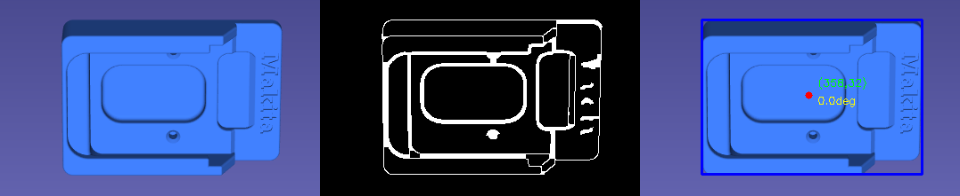
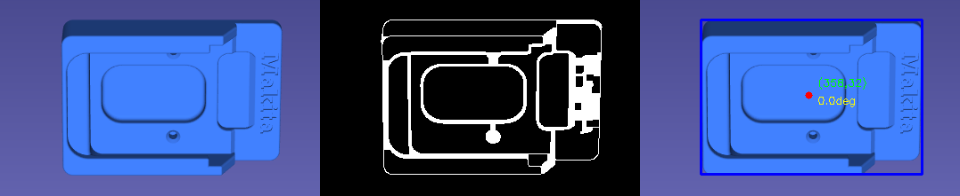
get of the pc washingthon

diff --git a/pia.py b/pia.py
@@ -2,61 +2,64 @@ import cv2
 import numpy as np
 
 # 1. DEFINICIÓN DE VARIABLES
-# ==========================================
 img09_entrada, img09_salida = 'portabaterias.png', 'etapas_img09.png'
 img10a_entrada, img10a_salida = 'pinza-mesa-120deg.png', 'etapas_img10_120.png'
 img10b_entrada, img10b_salida = 'pinza-mesa-90deg.png', 'etapas_img10_90.png'
 img11_entrada, img11_salida = 'Perno-de-bloqueo.png', 'etapas_img11.png'
 img12_entrada, img12_salida = 'placa-rectangular.png', 'etapas_img12.png'
 
+# Contador para el formato de impresión
+num_foto = 9
+
 # ==========================================
 # 2. FUNCIÓN DE PROCESAMIENTO 
-# ==========================================
 def procesar_figura(nombre_imagen, nombre_salida, K, OFF_X, OFF_Y, x_real, y_real, ang_real, es_perno=False):
+    global num_foto
     img = cv2.imread(nombre_imagen)
     if img is None:
         print(f"No se encontró: {nombre_imagen}")
         return
     
     gray = cv2.cvtColor(img, cv2.COLOR_BGR2GRAY)
-    blurred = cv2.GaussianBlur(gray, (5, 5), 0)
+    blurred = cv2.GaussianBlur(gray, (3, 3), 0)
     color_img = img.copy()
 
-    # Bordes (Canny)
-    low, high = (5, 40) if es_perno else (20, 100)
+    # --- AJUSTE DE BORDES ---
+    low, high = (5, 30) if es_perno else (10, 80)
     edges = cv2.Canny(blurred, low, high)
 
-    # --- Kernel de 5x5 para mantener la forma real de la pinza ---
-    kernel = np.ones((5, 5), np.uint8) 
+    # --- CLAUSURA ---
+    kernel = np.ones((7, 7), np.uint8) 
     closing = cv2.morphologyEx(edges, cv2.MORPH_CLOSE, kernel)
 
+    # Encontrar contornos
     contours, _ = cv2.findContours(closing, cv2.RETR_EXTERNAL, cv2.CHAIN_APPROX_SIMPLE)
 
     if contours:
         cnt = max(contours, key=cv2.contourArea)
-        M = cv2.moments(cnt)
+        M = cv2.moments(cnt) 
         if M["m00"] != 0:
-            # Centroide en píxeles
             cx, cy = int(M["m10"] / M["m00"]), int(M["m01"] / M["m00"])
 
-            # Conversión a coordenadas del Robot
+            # Conversión a coordenadas del robot
             cx_robot = (cx * K) + OFF_X
             cy_robot = OFF_Y - (cy * K)
 
-            # Cálculo de Orientación
+            # --- ORIENTACIÓN ---
             rect = cv2.minAreaRect(cnt)
             angle = rect[-1]
-            angle_robot = angle + 180 if rect[1][0] < rect[1][1] else angle + 90
+            
+            if rect[1][0] < rect[1][1]:
+                angle_robot = angle + 180
+            else:
+                angle_robot = angle + 90
 
-            # Normalización de ángulo
             while abs(angle_robot - ang_real) > 45:
                 if angle_robot > ang_real: angle_robot -= 90
                 else: angle_robot += 90
 
-            # --- CÁLCULO DE ERROR Y PRECISIÓN ---
+            # Error y Precisión
             err_dist = np.sqrt((cx_robot - x_real)**2 + (cy_robot - y_real)**2)
-            
-            # Precisión relativa (Suponiendo rango de 2000mm)
             precision = (1 - (err_dist / 2000)) * 100 
 
             # --- DIBUJAR ---
@@ -65,26 +68,24 @@ def procesar_figura(nombre_imagen, nombre_salida, K, OFF_X, OFF_Y, x_real, y_rea
             cv2.drawContours(color_img, [box], 0, (255, 0, 0), 2)
             
             font = cv2.FONT_HERSHEY_SIMPLEX
-            
-            # Texto 1: Posición (Capa Verde)
             cv2.putText(color_img, f"({int(cx_robot)},{int(cy_robot)})", (cx+10, cy-10), 
                         font, 0.4, (0, 255, 0), 1)
-            
-            # Texto 2: Ángulo (Capa Amarilla)
             cv2.putText(color_img, f"{angle_robot:.1f}deg", (cx+10, cy+10), 
                         font, 0.4, (0, 255, 255), 1)
 
-            # --- CONSOLA DETALLADA ---
-            print(f"FICHA: {nombre_imagen}")
+            # --- FORMATO TXT EN CONSOLA ---
+            print(f"Imagen {num_foto}: {nombre_imagen}")
             print(f"  > Píxeles: ({cx}, {cy})")
             print(f"  > Robot Calc: X={cx_robot:.2f}, Y={cy_robot:.2f}")
             print(f"  > Robot Real: X={x_real}, Y={y_real}")
             print(f"  > ERROR: {err_dist:.4f} mm")
             print(f"  > PRECISIÓN: {precision:.2f}%")
             print("-" * 45)
+            
+            num_foto += 1
 
-    # Mosaico escalado
-    ancho_etapa = 320 
+    # Mosaico
+    ancho_etapa = 320
     h, w = img.shape[:2]
     alto_etapa = int(h * (ancho_etapa / w))
     res1 = cv2.resize(img, (ancho_etapa, alto_etapa))
@@ -92,11 +93,8 @@ def procesar_figura(nombre_imagen, nombre_salida, K, OFF_X, OFF_Y, x_real, y_rea
     res3 = cv2.resize(color_img, (ancho_etapa, alto_etapa))
     mosaico = np.hstack((res1, res2, res3))
 
-    # Configuración de ventana para que no se salga de pantalla
-    nombre_ventana = f'Analisis: {nombre_imagen}'
-    cv2.namedWindow(nombre_ventana, cv2.WINDOW_NORMAL) 
-    cv2.imshow(nombre_ventana, mosaico)
-    
+    cv2.namedWindow(f'Analisis: {nombre_imagen}', cv2.WINDOW_NORMAL) 
+    cv2.imshow(f'Analisis: {nombre_imagen}', mosaico)
     cv2.imwrite(nombre_salida, mosaico)
     cv2.waitKey(0) 
     cv2.destroyAllWindows()
